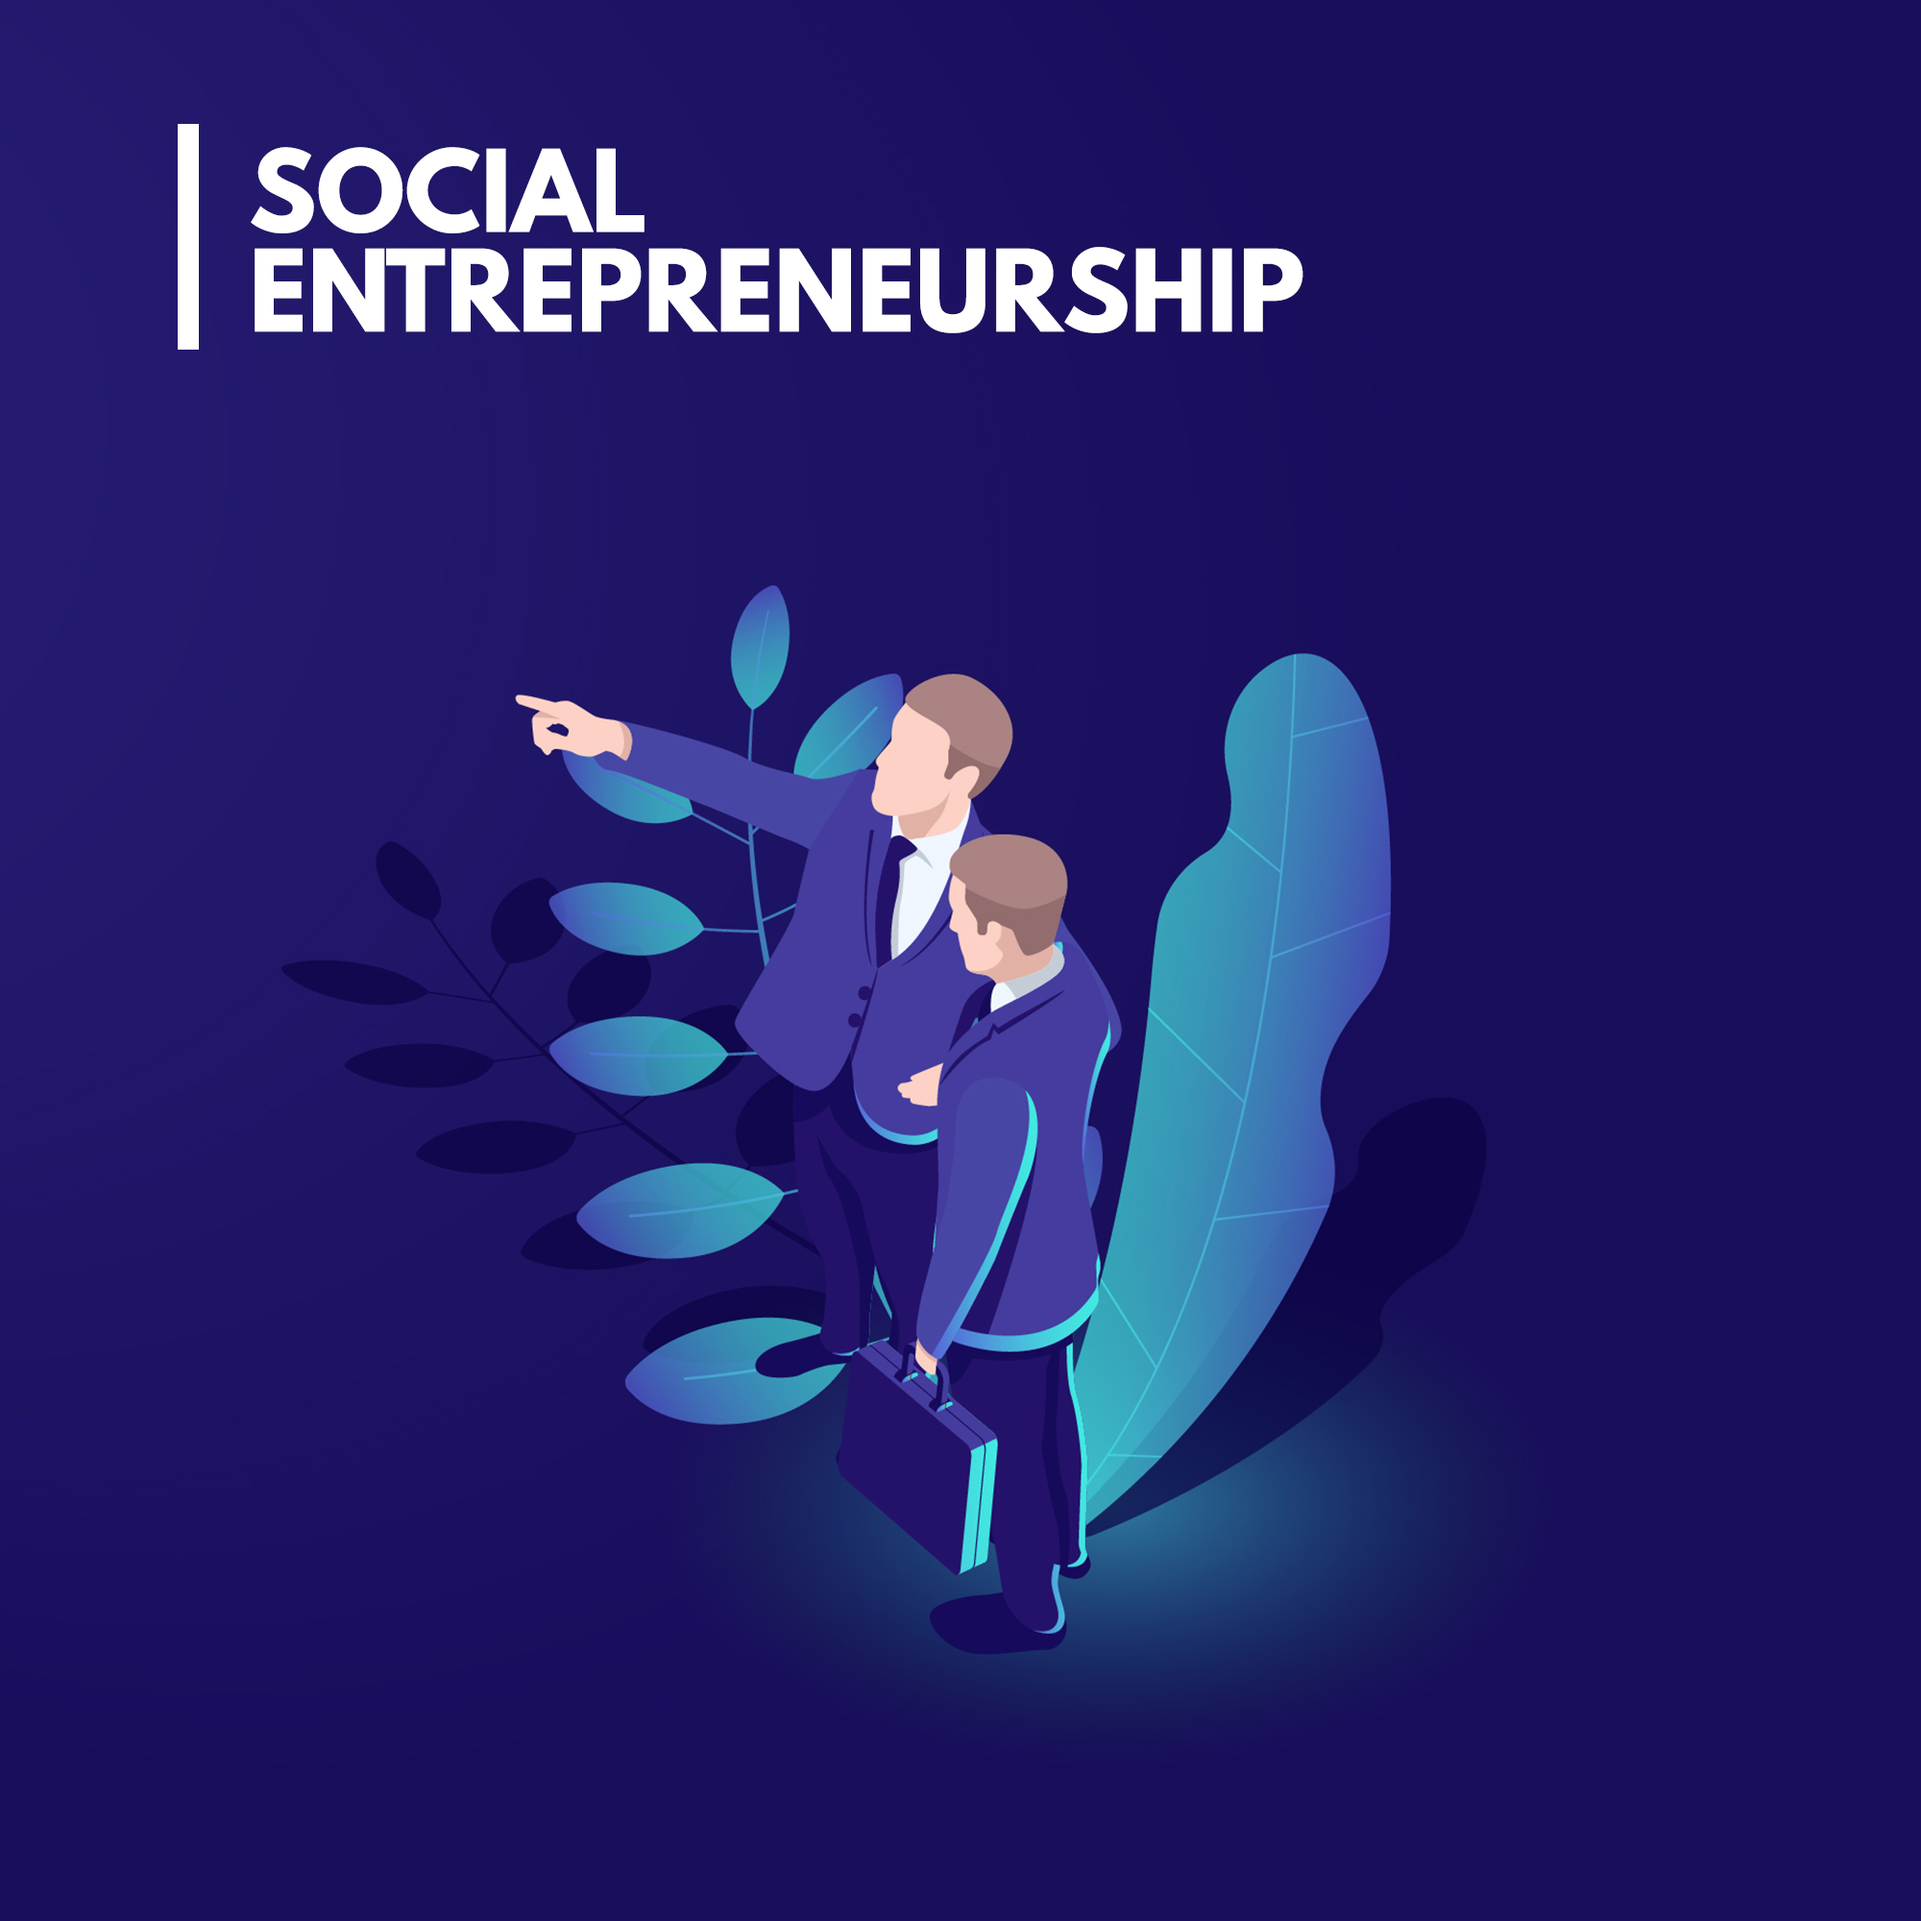
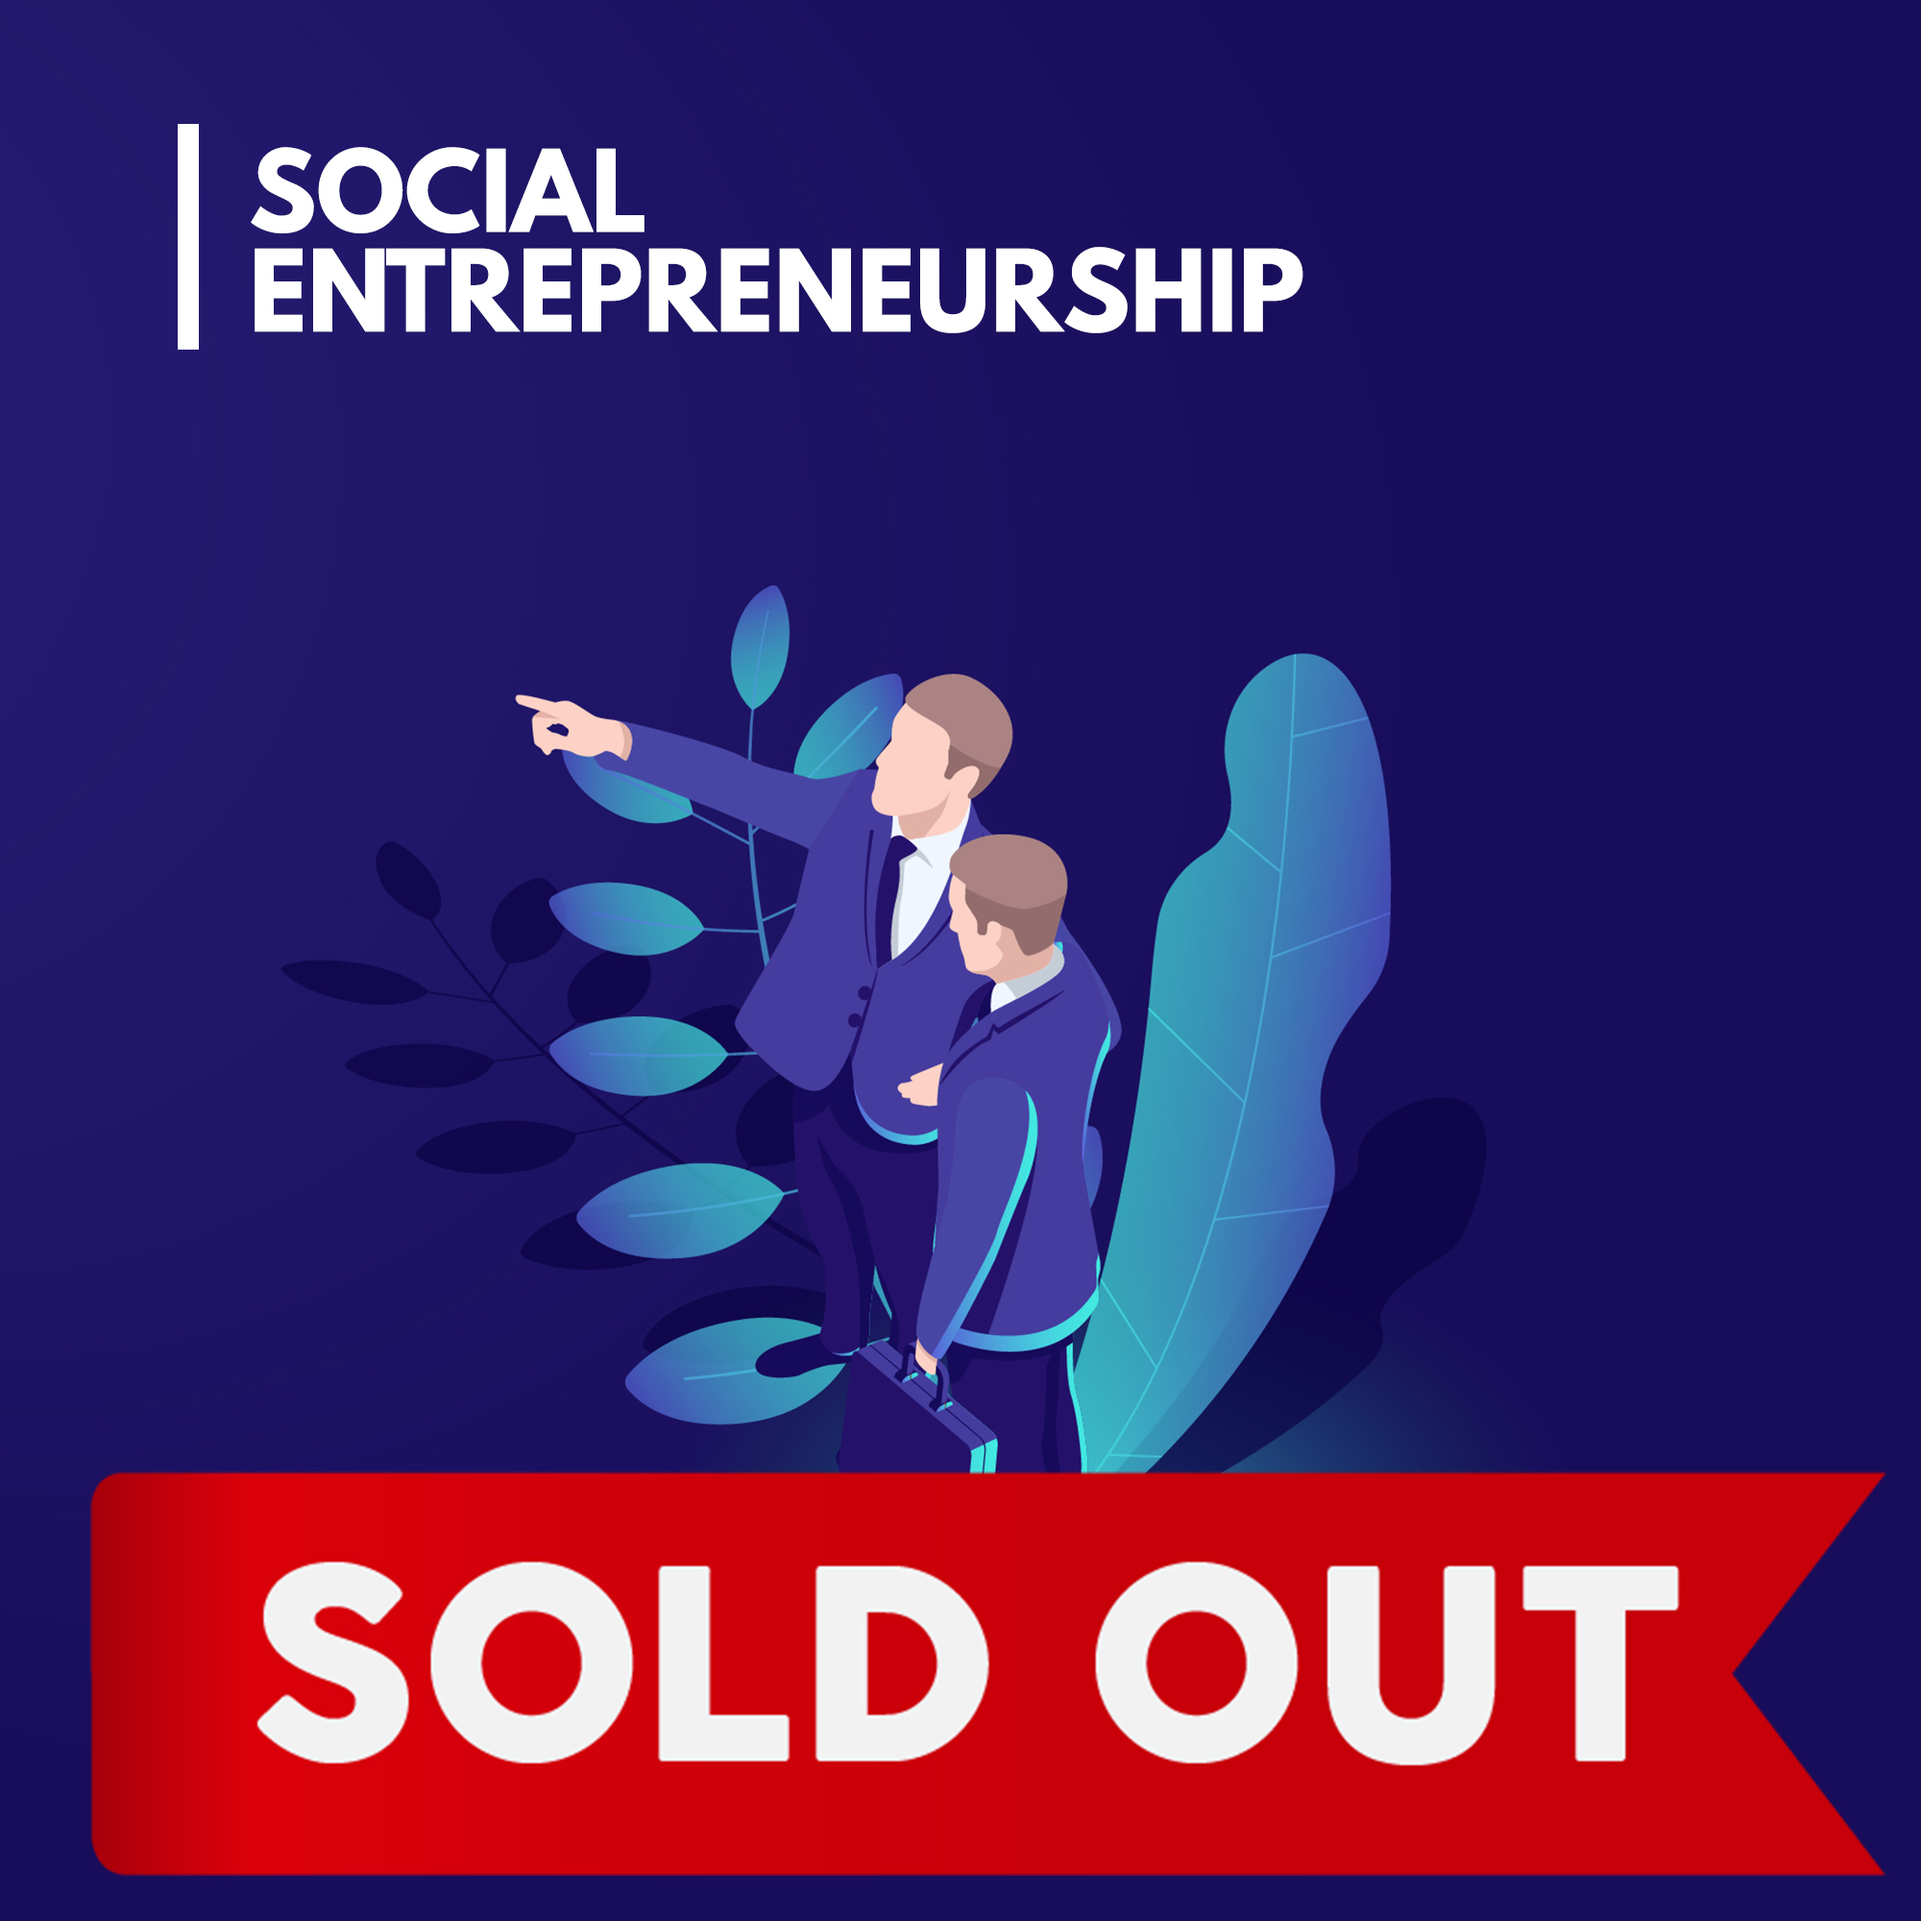
cells events talks

Changed region(s): [[0.031, 0.744, 0.992, 0.992]]

diff --git a/cells/index.html b/cells/index.html
@@ -188,7 +188,7 @@
                             </div>
                             <div class="modal-footer">
                                 <button type="button" class="btn btn-secondary" data-dismiss="modal">Close</button>
-                                <button type="button" class="btn btn-primary" onclick="location.href = 'https://www.townscript.com/widget/evoke19-231103/'">Register</button>
+                                <button type="button" class="btn btn-primary" disabled>Registration Closed</button>
                             </div>
                         </div>
                     </div>
@@ -237,7 +237,7 @@
                             </div>
                             <div class="modal-footer">
                                 <button type="button" class="btn btn-secondary" data-dismiss="modal">Close</button>
-                                <button type="button" class="btn btn-primary" onclick="location.href = 'https://www.townscript.com/widget/evoke19-231103/'">Register</button>
+                                <button type="button" class="btn btn-primary" disabled>Registration Closed</button>
                             </div>
                         </div>
                     </div>
@@ -285,7 +285,7 @@
                             </div>
                             <div class="modal-footer">
                                 <button type="button" class="btn btn-secondary" data-dismiss="modal">Close</button>
-                                <button type="button" class="btn btn-primary" onclick="location.href = 'https://www.townscript.com/widget/evoke19-231103/'">Register</button>
+                                <button type="button" class="btn btn-primary" disabled>Registration Closed</button>
                             </div>
                         </div>
                     </div>

diff --git a/events/index.html b/events/index.html
@@ -360,12 +360,12 @@
                     </div>
                 </div>
             </div>
-
-            <!--
+            
+            
            <div class="wrapper">
                 <div class="card" style="width: 20rem" data-toggle="modal" data-target="#exampleModal7">
                     <div class="card-header card-header-warning" style="padding: 0px;">
-                        <img src="img/VR.jpg" class="card-img-top" />
+                        <img src="img/inte.jpg" class="card-img-top" />
                     </div>
                     <div class="card-body">
                         <h4 class="card-title">Internship Drive</h4>
@@ -415,7 +415,7 @@
                         </div>
                     </div>
                 </div>
-            </div>-->
+            </div>
 
 
 

diff --git a/talks/index.html b/talks/index.html
@@ -30,7 +30,8 @@
 	<iframe src="../bg/index.html" class="main-frame" frameborder="0"></iframe>
 	<div class="container">
 		<header class="codrops-header">
-			<h1> Talks</h1>
+			<h1> 
+                Lecture Series</h1>
 		</header>
 		<div class="content">
 			<!-- trianglify pattern container -->
